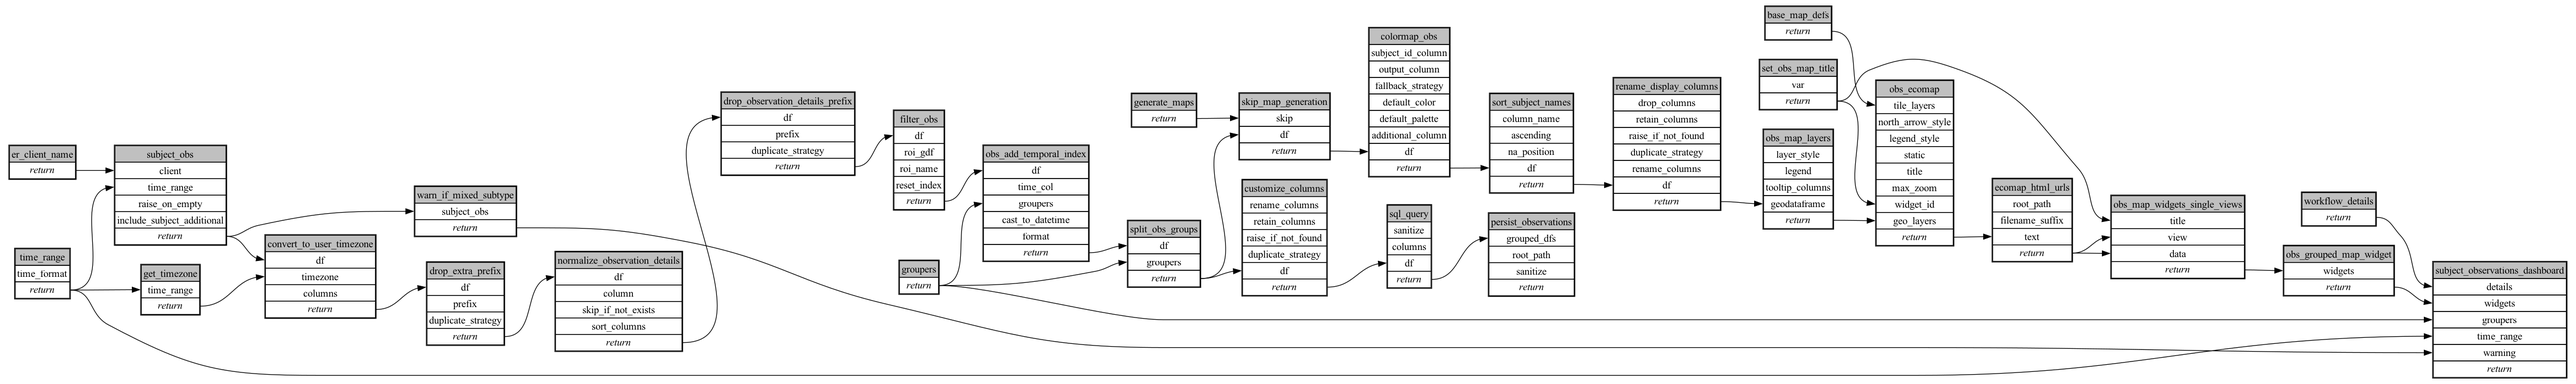
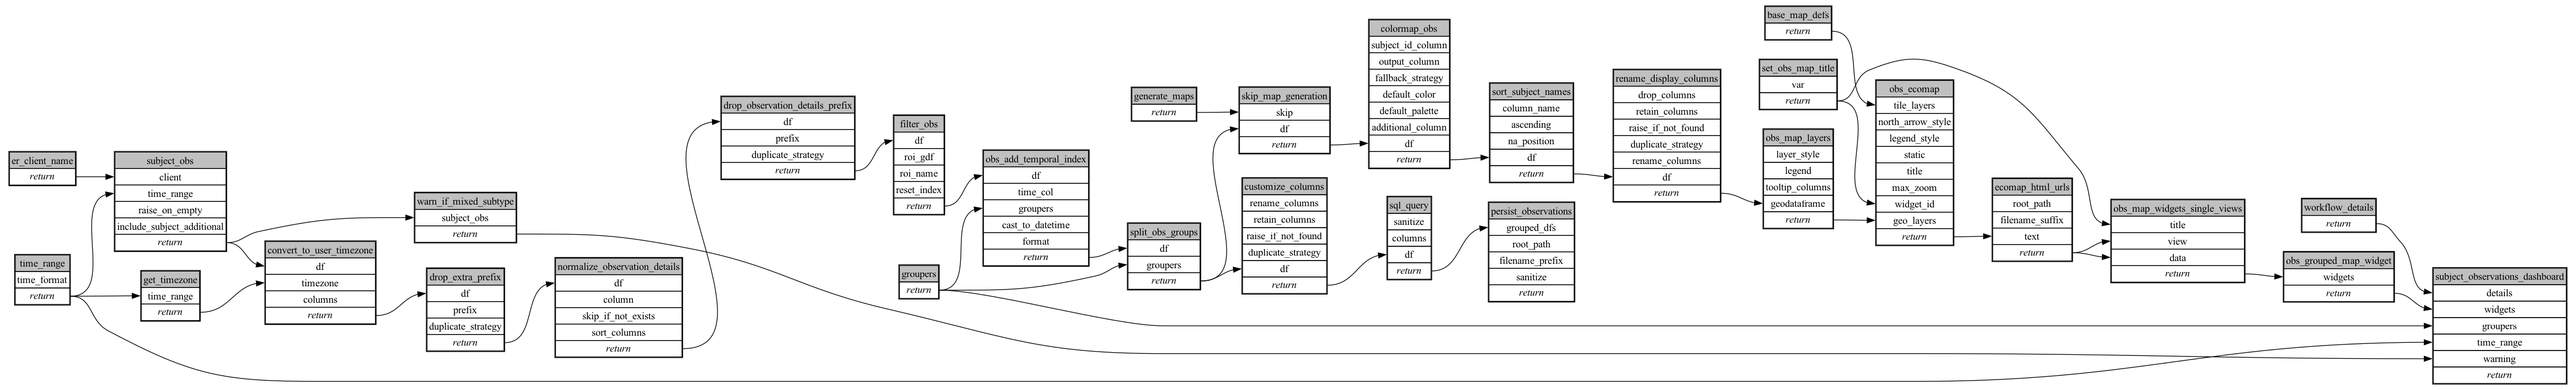
Fix filename_prefix in partial to prevent path traversal (v2.0.0)
- spec.yaml: fix filename_prefix in partial ('subject_observations') and remove from rjsf-overrides
- test-cases.yaml: remove filename_prefix from test case inputs
- Recompile with --variant=gcp --update: drops filename_prefix from params/rjsf and bumps version to v2.0.0

Tested: all mock IO test cases pass locally.

diff --git a/ecoscope-workflows-subject-observations-download-workflow/ecoscope_workflows_subject_observations_download_workflow/dags/run_sequential.py b/ecoscope-workflows-subject-observations-download-workflow/ecoscope_workflows_subject_observations_download_workflow/dags/run_sequential.py
@@ -404,6 +404,7 @@ def main(params: dict[str, Any], validate_params_schema: bool = True):
         .partial(
             grouped_dfs=sql_query,
             root_path=os.environ["ECOSCOPE_WORKFLOWS_RESULTS"],
+            filename_prefix="subject_observations",
             sanitize=True,
             **(params.get("persist_observations") or {}),
         )

diff --git a/ecoscope-workflows-subject-observations-download-workflow/ecoscope_workflows_subject_observations_download_workflow/dags/run_sequential_mock_io.py b/ecoscope-workflows-subject-observations-download-workflow/ecoscope_workflows_subject_observations_download_workflow/dags/run_sequential_mock_io.py
@@ -417,6 +417,7 @@ def main(params: dict[str, Any], validate_params_schema: bool = True):
         .partial(
             grouped_dfs=sql_query,
             root_path=os.environ["ECOSCOPE_WORKFLOWS_RESULTS"],
+            filename_prefix="subject_observations",
             sanitize=True,
             **(params.get("persist_observations") or {}),
         )

diff --git a/ecoscope-workflows-subject-observations-download-workflow/README.md b/ecoscope-workflows-subject-observations-download-workflow/README.md
@@ -5,8 +5,8 @@
 
 ```yaml
 # fingerprint:
-artifacts_sha256_basic: 4437869cc0a2dba899af4774c5e2fc4933b518a3bc484fe3172b974baaba9e62
-artifacts_sha256_strict: 5b40f2cf2122cd1c5f7a7409be70cf1571003e7344c3064cf77d7093d44dce26
+artifacts_sha256_basic: 29354b8165ff6c0f82560dda927ac03dccd35bb55d2c5b3f192f0926c51ad6e7
+artifacts_sha256_strict: 920e44d7c6bb9095d88ba78d5de749b4c0af37c61e1632e84cd50db2ae028432
 installed_requirements:
 - channel: https://repo.prefix.dev/ecoscope-workflows/
   name: ecoscope-platform
@@ -14,8 +14,8 @@ installed_requirements:
 - channel: conda-forge
   name: pydeck
   version: {version: ==0.9.2}
-params_sha256: dfb0f3460b3112eb0118c5cddf9097cc0f83c6e9bf305a80d8752e9a974620e5
-spec_sha256: 76db5f27eda2338899286f1e51af87c06faa65e46768235616f166a11d569151
+params_sha256: a43e16a129ce6580851e80d13de8754e82dd73421bed5bb00f404b2c2cb5b82d
+spec_sha256: c4b5d006445ce53fefa6529c70c2d8498d3cdcddc05df403a8a0efc6fa8e725a
 
 ```
 
